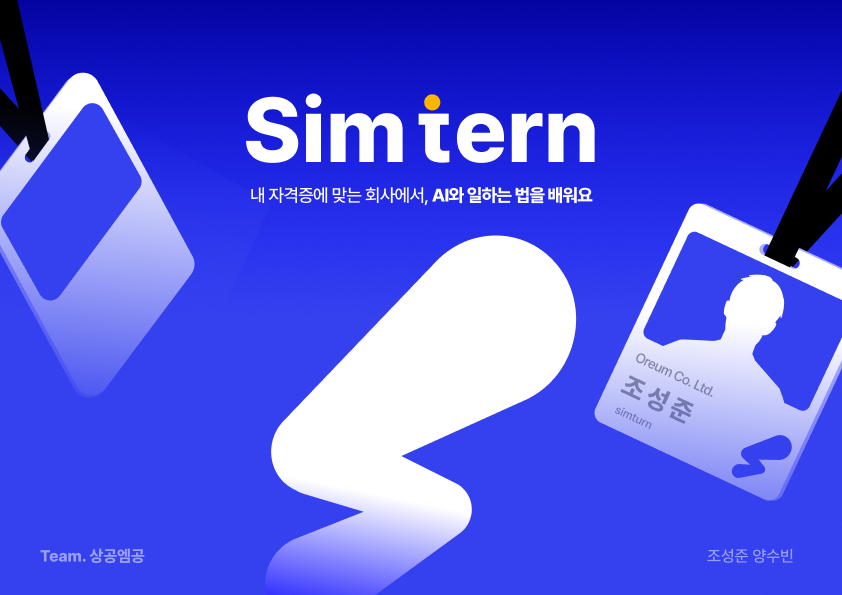
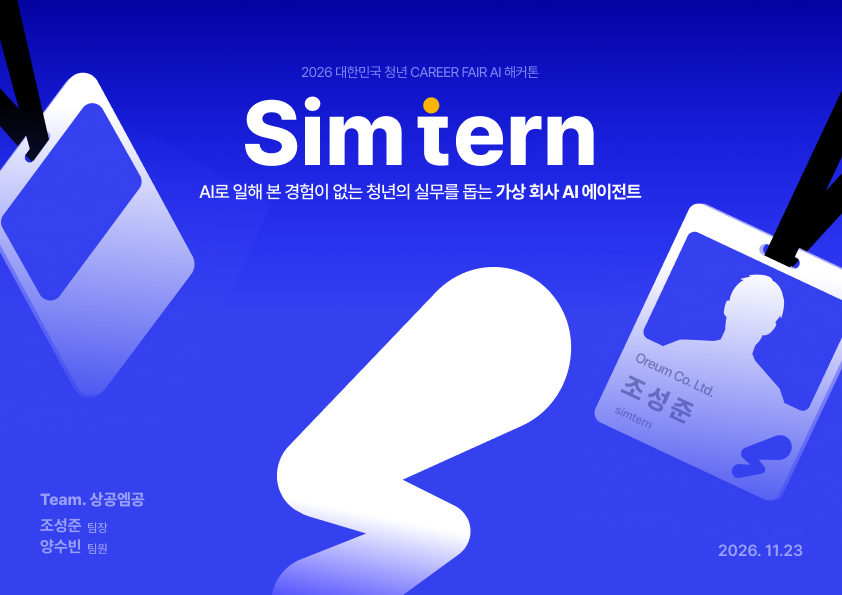
README 제목·부제·소개 문구 수정, 표지·문제 정의 슬라이드를 새 버전으로 교체

diff --git a/README.md b/README.md
@@ -5,7 +5,8 @@
 </p>
 
 <p align="center">
-  <b>내 자격증에 맞는 회사에서, AI와 일하는 법을 배워요</b><br/>
+  <b>내 자격증에 맞는 직무에서, AI와 일하는 법을 배워요</b><br/>
+  AI로 업무를 처리하고, 확인하고, AI 동료들과 협업하며 쌓는 실무 경험<br/><br/>
   2026 대한민국 청년 CAREER FAIR AI 해커톤 (주관: 대한상공회의소) 출품작 · Team 상공엠공
 </p>
 
@@ -19,9 +20,9 @@
 
 <p align="center"><img src=".github/readme/slide-problem.png" alt="문제 정의" width="840" /></p>
 
-AI가 신입의 일을 줄이면서 기업은 "AI로 일해 본 경험"을 묻기 시작했습니다. 그런데 AI가 낸 결과를 그대로 믿지 않고 검증하는 습관은 실무에서 가장 중요한데도 혼자서는 기르기 어렵습니다.
+기업은 이제 실제 업무를 주고 AI로 어떻게 일하는지를 평가합니다. 그런데 신입에게는 AI를 실무에 써 볼 기회도, AI가 낸 결과를 그대로 믿지 않고 확인하는 습관을 기를 곳도 없습니다.
 
-Simtern은 가상 회사 (주)오름에 인턴으로 입사해, 대한상공회의소 자격증별 실무 업무를 사내 AI 비서 오디와 함께 처리하는 시뮬레이션입니다. 오디의 결과에는 실무에서 자주 나는 오류가 숨어 있고, 업무가 끝나면 그 오류를 찾았는지, AI에게 어떻게 지시하고 되물었는지를 AI 활용 역량 리포트로 돌려받습니다.
+Simtern은 가상 회사 (주)오름에 인턴으로 입사해, 대한상공회의소 자격증별 직무의 실무 업무를 사내 AI 비서 오디와 함께 처리하는 시뮬레이션입니다. 오디의 결과에는 실무에서 자주 나는 오류가 숨어 있습니다. 막히면 AI 팀장·사수에게 묻고, 다 되면 받는 사람·참조를 골라 보고 메일로 제출합니다. 업무가 끝나면 오류를 찾았는지, AI에게 어떻게 지시하고 되물었는지를 AI 활용 역량 리포트로 돌려받습니다.
 
 <p align="center"><img src=".github/readme/slide-scenarios.png" alt="자격증 5개, 시나리오마다 함정 2개" width="840" /></p>
 
